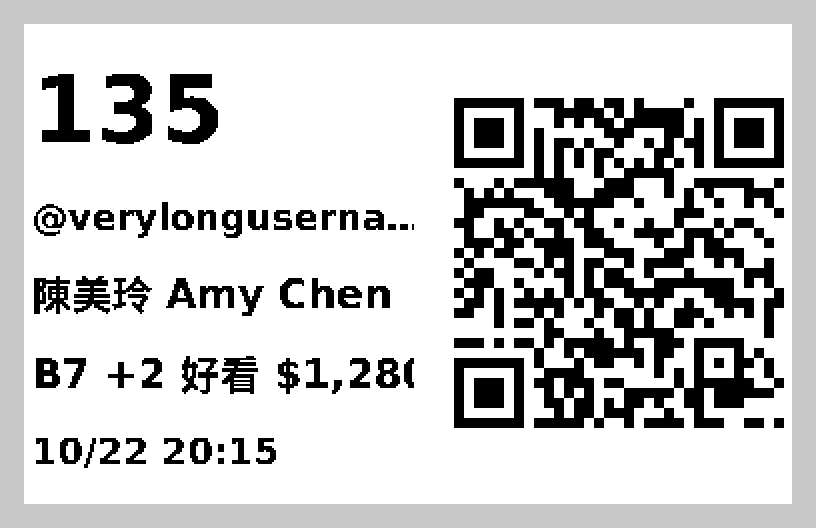
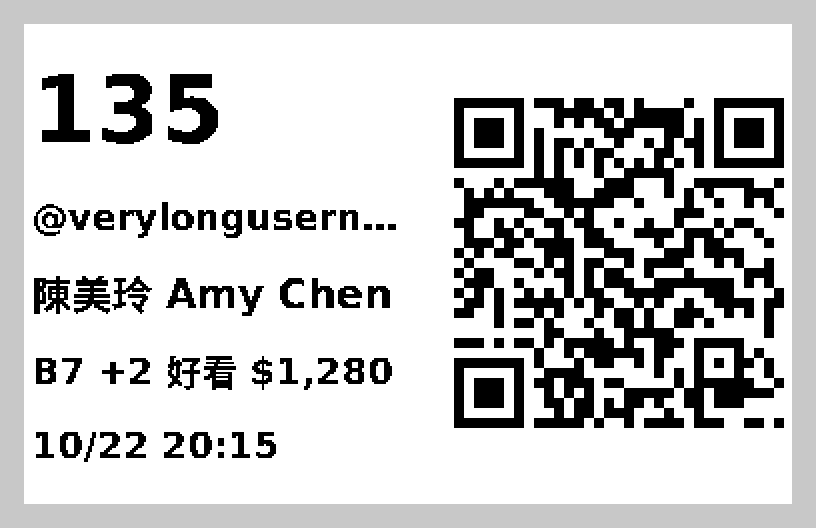
Font C: no partially painted glyph — ink-extent fit (+2 dots) and the text column ends before the QR quiet zone
Review of ae7eafa: "B7 +2 好看 $1,28(" — the last "0" was clipped with no "…" (a packer could
read $128), and the "…" after "@verylongusername" was clipped too. Two causes, both fixed:
1. The text column was allowed to run to 10 dots before the QR's first INK column, but the
   QR stamp clears its whole footprint from the quiet-zone start (20 dots before the ink), so
   anything painted in those 10 dots was erased after the fact. The column now ends at the
   quiet-zone start (≥ 20 dots before the QR ink, more than PROP_TEXT_QR_GAP).
2. The fit measured advance widths only; a glyph's ink box can be wider than its advance
   (right overhang). propFitLine now fits by the real painted extent — every advance but the
   last glyph's, then the wider of its advance and its ink box — plus PROP_INK_MARGIN = 2
   dots, and the "…" is measured the same way so it is always whole. PropLine carries
   inkWidth next to width.

Shared geometry: propLineTops (line y's) and propGlyphBox (where each glyph is painted) are
used by the painter AND the tests, so the integrity check sees exactly what prints:
- "font C glyph integrity": over every golden render and a seeded fuzz of 120 labels (long
  handles, CJK / mixed / Vietnamese names, prices like $1,280 / NT$12,345 / $99,999,999, both
  sizes, QR on/off, TikTok/Facebook), every ink dot of every painted glyph is present in the
  raster, every glyph box lies inside the column (+ the margin) and the label, a cut line
[…]

diff --git a/src/redesign/adapters/stickerRaster.ts b/src/redesign/adapters/stickerRaster.ts
@@ -1121,9 +1121,12 @@ export function bytesToBase64(bytes: Uint8Array): string {
 //     are cut: the normal size, then 24 → 20 → 18 px, and "…" only if 18 still overflows.
 //     The buyer number and the date-time keep their size.
 //   • QR (TikTok + sticker-QR ON + @username on): label-tall on the right, 5 dots/module,
-//     vertically centred, `edge` dots from the right; text stops PROP_TEXT_QR_GAP dots
-//     before the QR's first ink column — never under it. No QR (Facebook, or QR off):
-//     the text uses the full width and the buyer number steps up a size.
+//     vertically centred, `edge` dots from the right. The text column ends BEFORE the QR's
+//     quiet zone (the stamp clears that footprint, so nothing may be painted there) — i.e.
+//     ≥ 20 dots before the QR's first ink column, more than PROP_TEXT_QR_GAP. No QR
+//     (Facebook, or QR off): the text uses the full width and the buyer number steps up.
+//   • Fit = the real INK extent of a line (advances + the last glyph's right overhang, or
+//     the "…" itself) + PROP_INK_MARGIN ≤ the column — a glyph is never partially painted.
 //   • 50×30 (raster 384 = the 48 mm printable width) and 60×40 (raster 480 = the label).
 //   • The size choice depends on glyph ADVANCES only (CJK = one cell = the size), never on
 //     which CJK atlas is loaded → propPlanCjkSizes() tells the loader which CJK sizes a
@@ -1138,7 +1141,8 @@ export const CJK_BOLD_SIZES: CjkBoldSize[] = [18, 20, 24, 32];
 
 export const isPropCompactSize = (wMm: number, hMm: number): boolean => (wMm === 50 && hMm === 30) || (wMm === 60 && hMm === 40);
 export const PROP_QR_MODULE_DOTS = 5;   // 29 modules → 145-dot symbol (≈18 mm — the size the B1 scans)
-export const PROP_TEXT_QR_GAP = 10;     // dots of white between the text column and the QR's first ink column
+export const PROP_TEXT_QR_GAP = 10;     // minimum white between the text column and the QR's first ink column (the quiet zone gives 20)
+export const PROP_INK_MARGIN = 2;       // a line's painted ink (last glyph's overhang / the "…" included) ends ≥ this many dots before the column edge
 export const PROP_SHRINK_STEPS = [24, 20, 18]; // the shrink ladder below a line's normal size
 
 interface PropSizes { num: number; line: number; time: number; edge: number }
@@ -1171,7 +1175,7 @@ export function propQrPlacement(payload: RasterPayload, wDots: number, hDots: nu
 export const propQrInkLeft = (qr: QrPlacement): number => qr.x0 + QR_QUIET_MODULES * qr.scale;
 
 interface PropItem { x: number; latin?: PropGlyph; cjk?: number } // cjk = the codepoint, painted from the size's CJK atlas
-export interface PropLine { items: PropItem[]; width: number; text: string; cut: boolean; cjk: boolean }
+export interface PropLine { items: PropItem[]; width: number; inkWidth: number; text: string; cut: boolean; cjk: boolean } // width = Σ advances; inkWidth = painted extent (last glyph's overhang included)
 
 const isIdeograph = (cp: number) => (cp >= 0x4e00 && cp <= 0x9fff) || (cp >= 0x3400 && cp <= 0x4dbf) || (cp >= 0xf900 && cp <= 0xfaff);
 function propCjkFont(atlases: RasterAtlases, size: number): GlyphFont | null {
@@ -1183,7 +1187,7 @@ function propCjkFont(atlases: RasterAtlases, size: number): GlyphFont | null {
  *  depend on which CJK atlas is present (an ideograph is always one `size`-wide cell). */
 export function propFitLine(text: string, size: number, maxW: number, atlases: RasterAtlases): PropLine {
   const font = atlases.proportional?.[String(size)];
-  if (!font) return { items: [], width: 0, text: "", cut: false, cjk: false };
+  if (!font) return { items: [], width: 0, inkWidth: 0, text: "", cut: false, cjk: false };
   const cjkFont = propCjkFont(atlases, size); // only consulted for NON-ideographs the Latin font lacks (fullwidth punctuation, kana…)
   type Piece = { ch: string; adv: number; latin?: PropGlyph; cjk?: number };
   const pieces: Piece[] = [];
@@ -1197,23 +1201,26 @@ export function propFitLine(text: string, size: number, maxW: number, atlases: R
     pieces.push({ ch, adv: g.adv, latin: g });
   }
   const widthOf = (ps: Piece[]) => ps.reduce((a, p) => a + p.adv, 0);
+  // painted extent: every advance but the last glyph's, then the WIDER of its advance and its ink box
+  const inkOf = (ps: Piece[]) => (ps.length === 0 ? 0 : widthOf(ps.slice(0, -1)) + Math.max(ps[ps.length - 1].adv, ps[ps.length - 1].latin?.rows ? ps[ps.length - 1].latin!.w : ps[ps.length - 1].adv));
+  const fits = (ps: Piece[]) => inkOf(ps) + PROP_INK_MARGIN <= maxW;
   let kept = pieces;
   let suffix: Piece | null = null;
-  const cut = widthOf(pieces) > maxW;
+  const cut = !fits(pieces);
   if (cut) {
     const ell = font.glyphs[0x2026];
-    const ellW = ell ? ell.adv : 0;
+    const ellPiece: Piece | null = ell ? { ch: "…", adv: ell.adv, latin: ell } : null;
     let k = pieces.length;
-    while (k > 0 && widthOf(pieces.slice(0, k)) + ellW > maxW) k--;
+    while (k > 0 && !fits(ellPiece ? [...pieces.slice(0, k), ellPiece] : pieces.slice(0, k))) k--;
     while (k > 0 && pieces[k - 1].ch === " ") k--; // no space right before the "…"
     kept = pieces.slice(0, k);
-    if (ell) suffix = { ch: "…", adv: ell.adv, latin: ell };
+    suffix = ellPiece;
   }
   const out = suffix ? [...kept, suffix] : kept;
   const items: PropItem[] = [];
   let x = 0;
   for (const p of out) { items.push({ x, latin: p.latin, cjk: p.cjk }); x += p.adv; }
-  return { items, width: x, text: out.map((p) => p.ch).join(""), cut, cjk: out.some((p) => p.cjk != null) };
+  return { items, width: x, inkWidth: inkOf(out), text: out.map((p) => p.ch).join(""), cut, cjk: out.some((p) => p.cjk != null) };
 }
 
 /** A shrinkable line: the first ladder size that fits whole, else the smallest (cut). */
@@ -1242,7 +1249,7 @@ export function propLayoutLines(payload: RasterPayload, wMm: number, hMm: number
   const sizes = propSizes(wMm, !!qrProbe);
   const qr = qrProbe ? propQrPlacement(payload, W, H, sizes.edge) : null;
   const X = sizes.edge;
-  const right = qr ? propQrInkLeft(qr) - PROP_TEXT_QR_GAP : W - sizes.edge;
+  const right = qr ? Math.min(qr.x0, propQrInkLeft(qr) - PROP_TEXT_QR_GAP) : W - sizes.edge; // never inside the quiet zone the stamp clears
   const maxW = Math.max(1, right - X);
   if (!prop) return { lines: [], qr, x: X, w: W, h: H };
 
@@ -1282,28 +1289,31 @@ export function propPlanCjkSizes(payload: RasterPayload, wMm: number, hMm: numbe
   return CJK_BOLD_SIZES.filter((s) => sizes.has(s));
 }
 
-function paintPropLine(bmp: Bitmap, line: PropLine, size: number, x0: number, top: number, font: PropFont, atlases: RasterAtlases) {
+/** The top row of every line: evenly spaced over the height (PURE, shared with the tests). */
+export function propLineTops(lines: { font: PropFont }[], h: number): number[] {
+  const total = lines.reduce((a, l) => a + l.font.h, 0);
+  const gap = Math.max(0, Math.floor((h - total) / (lines.length + 1)));
+  const tops: number[] = [];
+  let y = gap;
+  for (const l of lines) { tops.push(y); y += l.font.h + gap; }
+  return tops;
+}
+/** Where one item's glyph is painted (x, top, w, h) — PURE, shared with the glyph-integrity tests. */
+export function propGlyphBox(item: PropItem, size: number, x0: number, top: number, font: PropFont, atlases: RasterAtlases): { x: number; y: number; w: number; h: number; cell: Uint8Array } | null {
+  if (item.latin) return item.latin.rows ? { x: x0 + item.x, y: top, w: item.latin.w, h: font.h, cell: b64ToBytes(item.latin.rows) } : null;
+  if (item.cjk == null) return null;
   const cjkFont = propCjkFont(atlases, size);
-  for (const it of line.items) {
-    if (it.latin) {
-      if (!it.latin.rows) continue; // blank (space)
-      bmp.blit(b64ToBytes(it.latin.rows), it.latin.w, font.h, x0 + it.x, top, 1, 1);
-    } else if (it.cjk != null) {
-      const g = cjkFont?.glyphs[it.cjk];
-      if (!g || !cjkFont) continue; // the atlas lacks it (or did not load) → the cell stays white, never tofu
-      bmp.blit(b64ToBytes(g), cjkFont.w, cjkFont.h, x0 + it.x + Math.round((size - cjkFont.w) / 2), top + Math.round((font.h - cjkFont.h) / 2), 1, 1);
-    }
-  }
+  const g = cjkFont?.glyphs[item.cjk];
+  if (!g || !cjkFont) return null;
+  return { x: x0 + item.x + Math.round((size - cjkFont.w) / 2), y: top + Math.round((font.h - cjkFont.h) / 2), w: cjkFont.w, h: cjkFont.h, cell: b64ToBytes(g) };
 }
 
 /** The whole compact label as a 1-bit bitmap (the only painter of the font-C layout). */
 export function renderPropCompact(payload: RasterPayload, wMm: number, hMm: number, atlases: RasterAtlases): Bitmap {
   const { lines, qr, x, w, h } = propLayoutLines(payload, wMm, hMm, atlases);
   const bmp = new Bitmap(w, h);
-  const total = lines.reduce((a, l) => a + l.font.h, 0);
-  const gap = Math.max(0, Math.floor((h - total) / (lines.length + 1)));
-  let y = gap;
-  for (const l of lines) { paintPropLine(bmp, l.line, l.size, x, y, l.font, atlases); y += l.font.h + gap; }
+  const tops = propLineTops(lines, h);
+  lines.forEach((l, i) => { for (const it of l.line.items) { const b = propGlyphBox(it, l.size, x, tops[i], l.font, atlases); if (b) bmp.blit(b.cell, b.w, b.h, b.x, b.y, 1, 1); } });
   stampHandleQr(bmp, qr);
   return bmp;
 }

diff --git a/src/redesign/adapters/__tests__/stickerRaster.prop.test.ts b/src/redesign/adapters/__tests__/stickerRaster.prop.test.ts
@@ -12,7 +12,7 @@ import { describe, it, expect } from "vitest";
 import { createHash } from "node:crypto";
 import { readFileSync } from "node:fs";
 import { join } from "node:path";
-import { renderStickerBitmap, rasterizeToBitmapTspl, propQrPlacement, propQrInkLeft, propFitLine, propFitShrinking, propShrinkLadder, propLayoutLines, propPlanCjkSizes, propSizes, isPropCompactSize, PROP_TEXT_QR_GAP, STICKER_LAYOUTS, QR_QUIET_MODULES, type RasterPayload, type RasterAtlases } from "../stickerRaster";
+import { renderStickerBitmap, rasterizeToBitmapTspl, propQrPlacement, propQrInkLeft, propFitLine, propFitShrinking, propShrinkLadder, propLayoutLines, propLineTops, propGlyphBox, propPlanCjkSizes, propSizes, isPropCompactSize, PROP_TEXT_QR_GAP, PROP_INK_MARGIN, STICKER_LAYOUTS, QR_QUIET_MODULES, type RasterPayload, type RasterAtlases } from "../stickerRaster";
 import { LATIN_ATLAS } from "../glyphAtlas.latin";
 import { CYRILLIC_ATLAS } from "../glyphAtlas.cyrillic";
 import { CJK_ATLAS } from "../glyphAtlas.cjk";
@@ -86,12 +86,14 @@ describe("font C layout rules", () => {
       const top = qr.y0 + QR_QUIET_MODULES * qr.scale;
       expect(Math.abs(top - (r.h - top - symbol))).toBeLessThanOrEqual(1);          // vertically centred
       let gapInk = 0, textRight = -1;
+      const colEnd = Math.min(qr.x0, inkLeft - PROP_TEXT_QR_GAP); // the column ends before the quiet zone the stamp clears
       for (let y = 0; y < r.h; y++) {
-        for (let x = inkLeft - PROP_TEXT_QR_GAP; x < inkLeft; x++) if (ink(r, x, y)) gapInk++;
-        for (let x = 0; x < inkLeft - PROP_TEXT_QR_GAP; x++) if (ink(r, x, y)) textRight = Math.max(textRight, x);
+        for (let x = colEnd - PROP_INK_MARGIN; x < inkLeft; x++) if (ink(r, x, y)) gapInk++;
+        for (let x = 0; x < colEnd; x++) if (ink(r, x, y)) textRight = Math.max(textRight, x);
       }
       expect(gapInk).toBe(0);
-      expect(textRight).toBeLessThan(inkLeft - PROP_TEXT_QR_GAP);
+      expect(inkLeft - colEnd).toBeGreaterThanOrEqual(PROP_TEXT_QR_GAP);
+      expect(textRight).toBeLessThan(colEnd - PROP_INK_MARGIN);
       expect(textRight).toBeGreaterThan(0);
     }
   });
@@ -118,9 +120,9 @@ describe("font C layout rules", () => {
     const byText = (t: string) => lines.find((l) => l.line.text === t);
     expect(byText("12")!.size).toBe(46);                       // buyer number: unchanged size
     expect(byText("10/22 20:15")!.size).toBe(18);              // date-time: unchanged size
-    const handle = byText("@wangxiaoming88")!;                 // was "@wangxiaomi…" at 24 → now whole, one step down
+    const handle = byText("@wangxiaoming88")!;                 // was "@wangxiaomi…" at 24 → now whole, a step or two down
     expect(handle.line.cut).toBe(false);
-    expect(handle.size).toBe(20);
+    expect([20, 18]).toContain(handle.size);
     expect(propFitLine("@wangxiaoming88", 24, col, ATL).cut).toBe(true);
     expect(byText("王小明")!.size).toBe(24);                    // fits at the normal size → no shrink
     expect(byText("A12 +1 $350")!.size).toBe(24);
@@ -197,5 +199,76 @@ describe("opt-in: the fixed-cell layout and the D520BT stream are untouched", ()
     // the font-C loaders are referenced ONLY through imagePathAtlases (generic + Niimbot image paths)
     const users = src.split("\n").filter((l) => /loadPropAtlas\(|loadCjkBoldAtlas\(/.test(l));
     expect(users.length).toBe(2);
+  });
+});
+
+// ── glyph integrity: no glyph is ever partially painted (clipped by the column, the label edge
+// or the QR's cleared footprint); a cut line always ends in a whole "…"; digits are never
+// silently cut. Checked over every golden render AND a seeded fuzz of long handles / mixed
+// names / prices at both sizes, QR on and off.
+describe("font C glyph integrity", () => {
+  // every ink dot of every painted glyph is in the raster, and the glyph lies inside the column
+  function checkIntegrity(rp: RasterPayload, size: Size) {
+    const { w, h } = dims(size);
+    const r = renderStickerBitmap(rp, w, h, ATL);
+    const L = propLayoutLines(rp, w, h, ATL);
+    const colEnd = L.qr ? Math.min(L.qr.x0, propQrInkLeft(L.qr) - PROP_TEXT_QR_GAP) : L.w - propSizes(w, false).edge;
+    const tops = propLineTops(L.lines, L.h);
+    let glyphs = 0;
+    L.lines.forEach((l, i) => {
+      expect(L.x + l.line.inkWidth + PROP_INK_MARGIN).toBeLessThanOrEqual(colEnd);
+      if (l.line.cut) expect(l.line.text.endsWith("…")).toBe(true);
+      for (const it of l.line.items) {
+        const b = propGlyphBox(it, l.size, L.x, tops[i], l.font, ATL);
+        if (!b) continue;
+        glyphs++;
+        expect(b.x + b.w).toBeLessThanOrEqual(colEnd);                // the glyph box never crosses the column
+        expect(b.y + b.h).toBeLessThanOrEqual(r.h);
+        const crb = (b.w + 7) >> 3;
+        for (let sy = 0; sy < b.h; sy++) for (let sx = 0; sx < b.w; sx++) {
+          if ((b.cell[sy * crb + (sx >> 3)] & (0x80 >> (sx & 7))) === 0) continue;
+          if (!ink(r, b.x + sx, b.y + sy)) throw new Error(`glyph "${l.line.text}" size ${l.size}: ink missing at (${b.x + sx},${b.y + sy}) — partially clipped`);
+        }
+      }
+    });
+    return glyphs;
+  }
+  it("every golden render", () => {
+    let n = 0;
+    for (const b of [S1, S2, S3]) n += checkIntegrity(payloadFor(b, "50x30", true), "50x30");
+    for (const size of ["50x30", "60x40"] as Size[]) {
+      n += checkIntegrity(payloadFor(S2, size, true, "Facebook"), size);
+      n += checkIntegrity(payloadFor(S2, size, false), size);
+      n += checkIntegrity(payloadFor(S2, size, true), size);
+    }
+    expect(n).toBeGreaterThan(200);
+  });
+  it("fuzz: long handles, mixed CJK/Latin names, prices — never a partial glyph, never a cut digit without '…'", () => {
+    let seed = 20261022;
+    const rnd = () => { seed = (seed * 1103515245 + 12345) & 0x7fffffff; return seed / 0x7fffffff; };
+    const pick = <T,>(a: T[]) => a[Math.floor(rnd() * a.length)];
+    const latin = "abcdefghijklmnopqrstuvwxyzABCDEFGHIJKLMNOPQRSTUVWXYZ0123456789_.";
+    const cjk = "陳美玲王小明林志偉張淑芬好看漂亮測試黃雅婷";
+    const word = (n: number, src: string) => Array.from({ length: n }, () => src[Math.floor(rnd() * src.length)]).join("");
+    let glyphs = 0, cut = 0;
+    for (let i = 0; i < 120; i++) {
+      const handle = word(4 + Math.floor(rnd() * 28), latin);
+      const name = pick([word(2 + Math.floor(rnd() * 4), cjk), `${word(3, cjk)} ${word(3 + Math.floor(rnd() * 8), latin)}`, word(5 + Math.floor(rnd() * 20), latin), `Nguyễn Thị ${word(4, latin)}`]);
+      const price = pick(["$350", "$1,280", "NT$12,345", "$99,999,999", "¥8,800", "250"]);
+      const item = pick([`A${Math.floor(rnd() * 99)} +${1 + Math.floor(rnd() * 9)} ${price}`, `${word(2, cjk)}${word(2, cjk)} ${price}`, `${word(20 + Math.floor(rnd() * 20), latin)} ${price}`, price]);
+      const size = pick(["50x30", "60x40"] as Size[]);
+      const platform = pick(["TikTok", "TikTok", "Facebook"] as const);
+      const rp = payloadFor(buyer(1 + Math.floor(rnd() * 9999), handle, name, item, platform), size, rnd() < 0.7, platform);
+      glyphs += checkIntegrity(rp, size);
+      const L = propLayoutLines(rp, dims(size).w, dims(size).h, ATL);
+      for (const l of L.lines) {
+        if (!l.line.cut) continue;
+        cut++;
+        expect(l.line.text.endsWith("…")).toBe(true);
+        expect(/[0-9]$/.test(l.line.text)).toBe(false); // a cut line never ENDS in a digit ("$1,28" can never be read as a price)
+      }
+    }
+    expect(glyphs).toBeGreaterThan(2000);
+    expect(cut).toBeGreaterThan(20);
   });
 });
